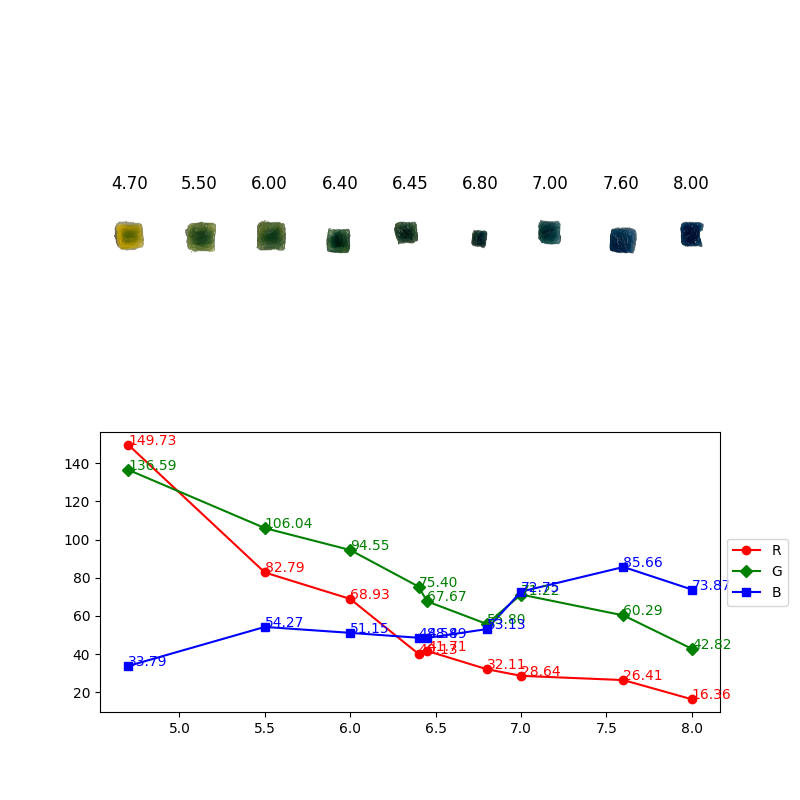
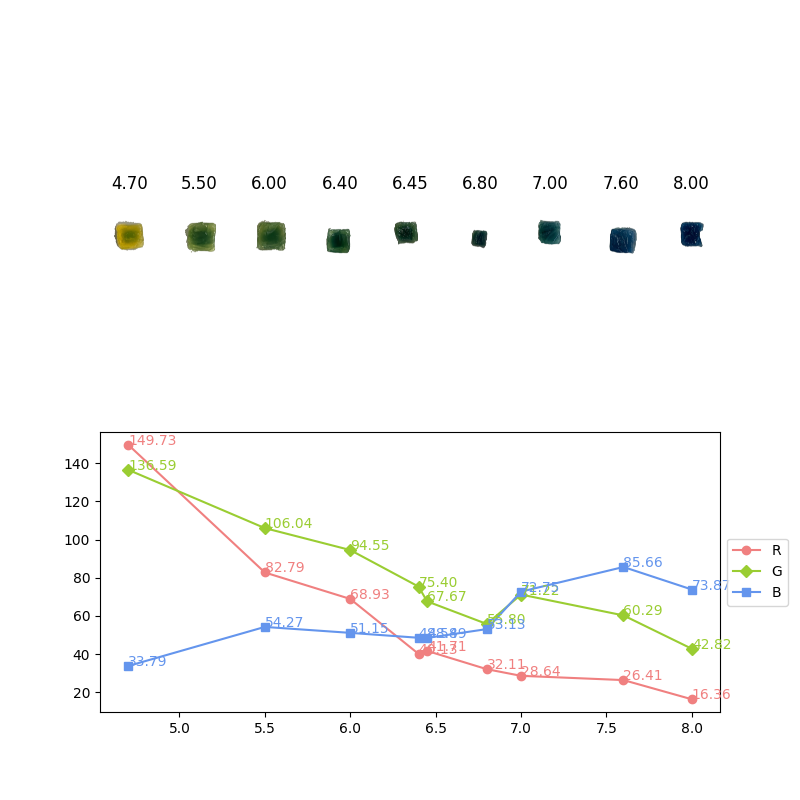
1

diff --git a/get_rgb.py b/get_rgb.py
@@ -101,19 +101,19 @@ def comparison(imgs):
     rgb.append(average_rgb(processed_images[i]))
   # Show values of R
   red = np.array([i[0] for i in rgb])
-  p1 = axes[1, 0].plot(pHs, red, color="red", marker="o")
+  p1 = axes[1, 0].plot(pHs, red, color="lightcoral", marker="o")
   for a, b in zip(pHs, red): 
-    axes[1, 0].text(a, b, str("{:.2f}".format(b)), color="red")
+    axes[1, 0].text(a, b, str("{:.2f}".format(b)), color="lightcoral")
   # Show values of G
   green = np.array([i[1] for i in rgb])
-  p2 = axes[1, 0].plot(pHs, green, color="green", marker="D")
+  p2 = axes[1, 0].plot(pHs, green, color="yellowgreen", marker="D")
   for a, b in zip(pHs, green): 
-    axes[1, 0].text(a, b, str("{:.2f}".format(b)), color="green")
+    axes[1, 0].text(a, b, str("{:.2f}".format(b)), color="yellowgreen")
   # Show values of B
   blue = np.array([i[2] for i in rgb])
-  p3 = axes[1, 0].plot(pHs, blue, color="blue", marker="s")
+  p3 = axes[1, 0].plot(pHs, blue, color="cornflowerblue", marker="s")
   for a, b in zip(pHs, blue): 
-    axes[1, 0].text(a, b, str("{:.2f}".format(b)), color="blue")
+    axes[1, 0].text(a, b, str("{:.2f}".format(b)), color="cornflowerblue")
   # Add legends
   axes[1, 0].legend((p1[0], p2[0], p3[0]), ("R", "G", "B"), loc='center left', bbox_to_anchor=(1, 0.5))
   plt.show()
